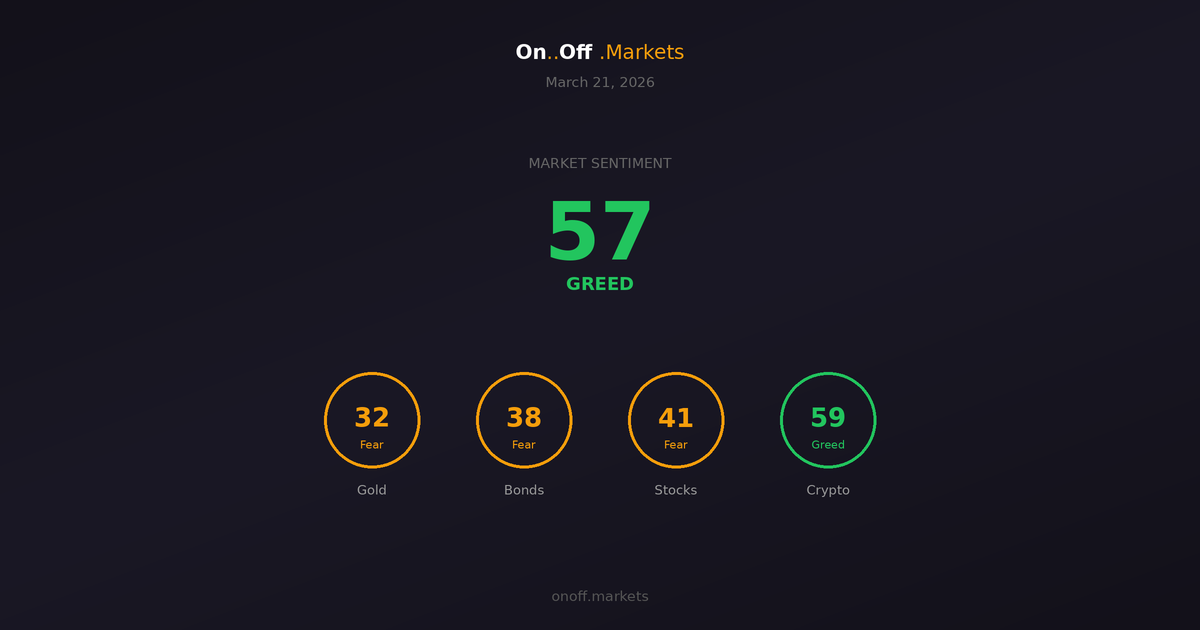
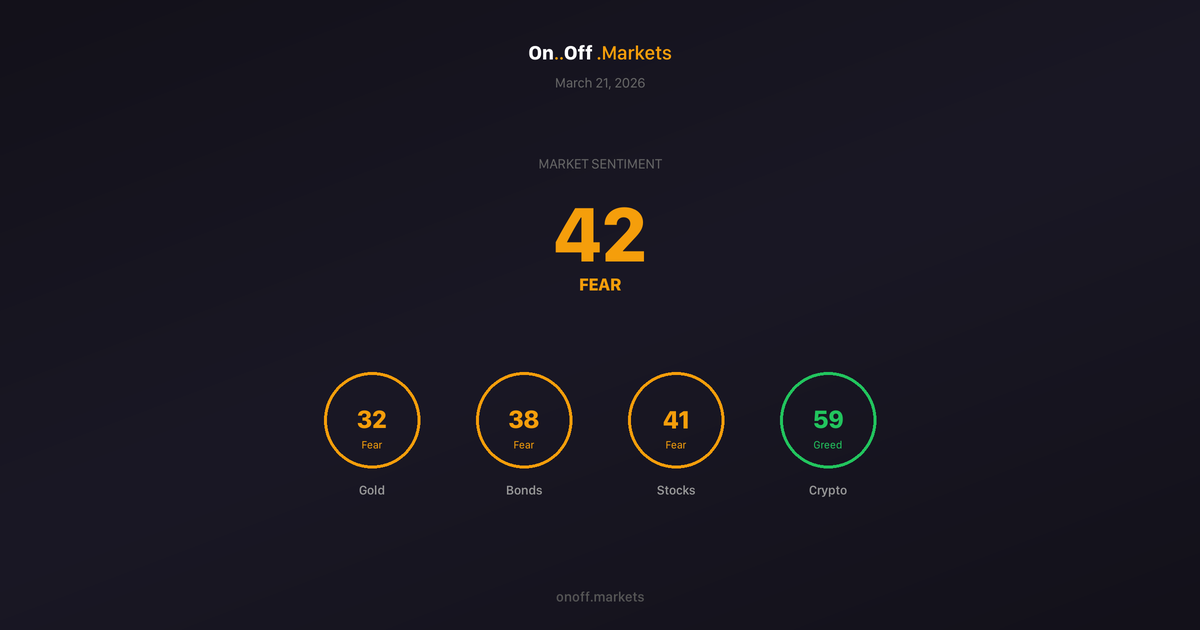
Switch Market Sentiment to simple average of 4 indices
Replace risk-on/risk-off formula with (Gold + Stocks + Crypto + Bonds) / 4.
Backtested over 5 years: old formula was blind to uniform fear/greed
(all indices at 30 = composite 50 Neutral). New formula correctly
reflects broad market sentiment. Affects homepage, share card, alerts,
chart, and documentation.

diff --git a/index.html b/index.html
@@ -900,11 +900,8 @@
         }
 
         function updateUI(gold, stocks, crypto, bonds) {
-            // Risk-On vs Risk-Off calculation
-            const riskOn = (stocks.score + crypto.score) / 2;
-            const riskOff = (bonds.score + gold.score) / 2;
-            const rotationScore = riskOn - riskOff;
-            const position = ((rotationScore + 100) / 200) * 100;
+            // Market Sentiment — simple average of all 4 indices
+            const position = (gold.score + stocks.score + crypto.score + bonds.score) / 4;
 
             // Update score with trend arrow
             const scoreEl = document.getElementById('score');
@@ -925,9 +922,7 @@
                 const todayData = dateMap[dates[0]];
                 const yesterdayData = dateMap[dates[1]];
                 if (todayData && yesterdayData && todayData.gold != null && todayData.stocks != null && todayData.crypto != null && todayData.bonds != null && yesterdayData.gold != null && yesterdayData.stocks != null && yesterdayData.crypto != null && yesterdayData.bonds != null) {
-                    const yesterdayRiskOn = (yesterdayData.stocks + yesterdayData.crypto) / 2;
-                    const yesterdayRiskOff = (yesterdayData.bonds + yesterdayData.gold) / 2;
-                    const yesterdayPosition = ((yesterdayRiskOn - yesterdayRiskOff + 100) / 200) * 100;
+                    const yesterdayPosition = (yesterdayData.gold + yesterdayData.stocks + yesterdayData.crypto + yesterdayData.bonds) / 4;
                     const diff = position - yesterdayPosition;
                     if (diff > 2) sentimentArrow = '↑';
                     else if (diff < -2) sentimentArrow = '↓';
@@ -1362,9 +1357,7 @@
             dates.forEach(date => {
                 const d = dateMap[date];
                 if (d.gold != null && d.stocks != null && d.crypto != null && d.bonds != null) {
-                    const riskOn = (d.stocks + d.crypto) / 2;
-                    const riskOff = (d.bonds + d.gold) / 2;
-                    d.sentiment = ((riskOn - riskOff + 100) / 200) * 100;
+                    d.sentiment = (d.gold + d.stocks + d.crypto + d.bonds) / 4;
                 }
             });
 

diff --git a/about.html b/about.html
@@ -378,7 +378,7 @@
                     <strong>Risk-on signal:</strong> Crypto/Stocks rising + Gold falling = risk appetite returning.
                 </p>
                 <p>
-                    Use the Market Sentiment Indicator to visualize these flows in real-time.
+                    Compare the four asset cards side by side to spot these flows in real-time.
                 </p>
             </div>
 
@@ -460,7 +460,7 @@
 
             <h3>Is this better than CNN's Fear and Greed Index?</h3>
             <p>
-                CNN's index only covers US stocks. We provide <strong>four separate indices</strong> for Bonds, Gold, Stocks, and Crypto, enabling comprehensive cross-asset sentiment analysis. Our methodology is fully documented and transparent, unlike CNN's proprietary calculations. The Market Sentiment Indicator visualizes risk-on/risk-off flows across all asset classes—a feature not available elsewhere.
+                CNN's index only covers US stocks. We provide <strong>four separate indices</strong> for Bonds, Gold, Stocks, and Crypto, enabling comprehensive cross-asset sentiment analysis. Our methodology is fully documented and transparent, unlike CNN's proprietary calculations. The Market Sentiment score is the simple average of all four indices — when three out of four markets are in Fear, the composite reflects that reality.
             </p>
 
             <h3>Can I access historical data via API?</h3>

diff --git a/shared.js b/shared.js
@@ -90,9 +90,7 @@ async function updateLogoDots() {
         const stocks = await stocksRes.json();
         const crypto = await cryptoRes.json();
 
-        const riskOn = (stocks.score + crypto.score) / 2;
-        const riskOff = (bonds.score + gold.score) / 2;
-        const position = ((riskOn - riskOff + 100) / 200) * 100;
+        const position = (gold.score + stocks.score + crypto.score + bonds.score) / 4;
 
         const logoDots = document.querySelector('.logo-dots');
         if (logoDots) logoDots.style.color = getColor(position);

diff --git a/send_alerts.py b/send_alerts.py
@@ -67,11 +67,9 @@ def load_current_scores():
                 'history': data.get('history', []),
             }
 
-    # Compute Market Sentiment (Risk-On vs Risk-Off)
+    # Compute Market Sentiment (simple average of all 4 indices)
     if all(k in current for k in ['gold', 'bonds', 'stocks', 'crypto']):
-        risk_on = (current['stocks']['score'] + current['crypto']['score']) / 2
-        risk_off = (current['bonds']['score'] + current['gold']['score']) / 2
-        sentiment_score = round(((risk_on - risk_off + 100) / 200) * 100, 1)
+        sentiment_score = round((current['gold']['score'] + current['stocks']['score'] + current['crypto']['score'] + current['bonds']['score']) / 4, 1)
         current['sentiment'] = {
             'score': sentiment_score,
             'label': get_label(sentiment_score),

diff --git a/generate_share_card.py b/generate_share_card.py
@@ -135,10 +135,8 @@ def center_text(draw, y, text, font, fill):
 
 def generate():
     scores = load_scores()
-    # Same formula as index.html: risk-on vs risk-off
-    risk_on = (scores['stocks'] + scores['crypto']) / 2
-    risk_off = (scores['bonds'] + scores['gold']) / 2
-    sentiment = round(((risk_on - risk_off + 100) / 200) * 100)
+    # Market Sentiment — simple average of all 4 indices
+    sentiment = round((scores['gold'] + scores['stocks'] + scores['crypto'] + scores['bonds']) / 4)
 
     S = SCALE
     img = Image.new('RGB', (WIDTH * S, HEIGHT * S), (19, 17, 26))

diff --git a/README.md b/README.md
@@ -51,16 +51,13 @@ If you can't verify it, you can't trust it.
 
 ## Market Sentiment Indicator
 
-The homepage score combines all 4 indices into a single risk-on / risk-off reading:
+The homepage score is the simple average of all 4 individual indices:
 
 ```
-Greed Side  = (Stocks Score + Crypto Score) / 2
-Fear Side   = (Bonds Score + Gold Score) / 2
-Sentiment   = Greed Side - Fear Side
-Position    = ((Sentiment + 100) / 200) x 100
+Sentiment = (Gold + Stocks + Crypto + Bonds) / 4
 ```
 
-Below 50 = fear dominates (investors prefer safe havens). Above 50 = greed dominates (investors chase risk).
+Below 50 = fear dominates across markets. Above 50 = optimism prevails.
 
 ---
 
